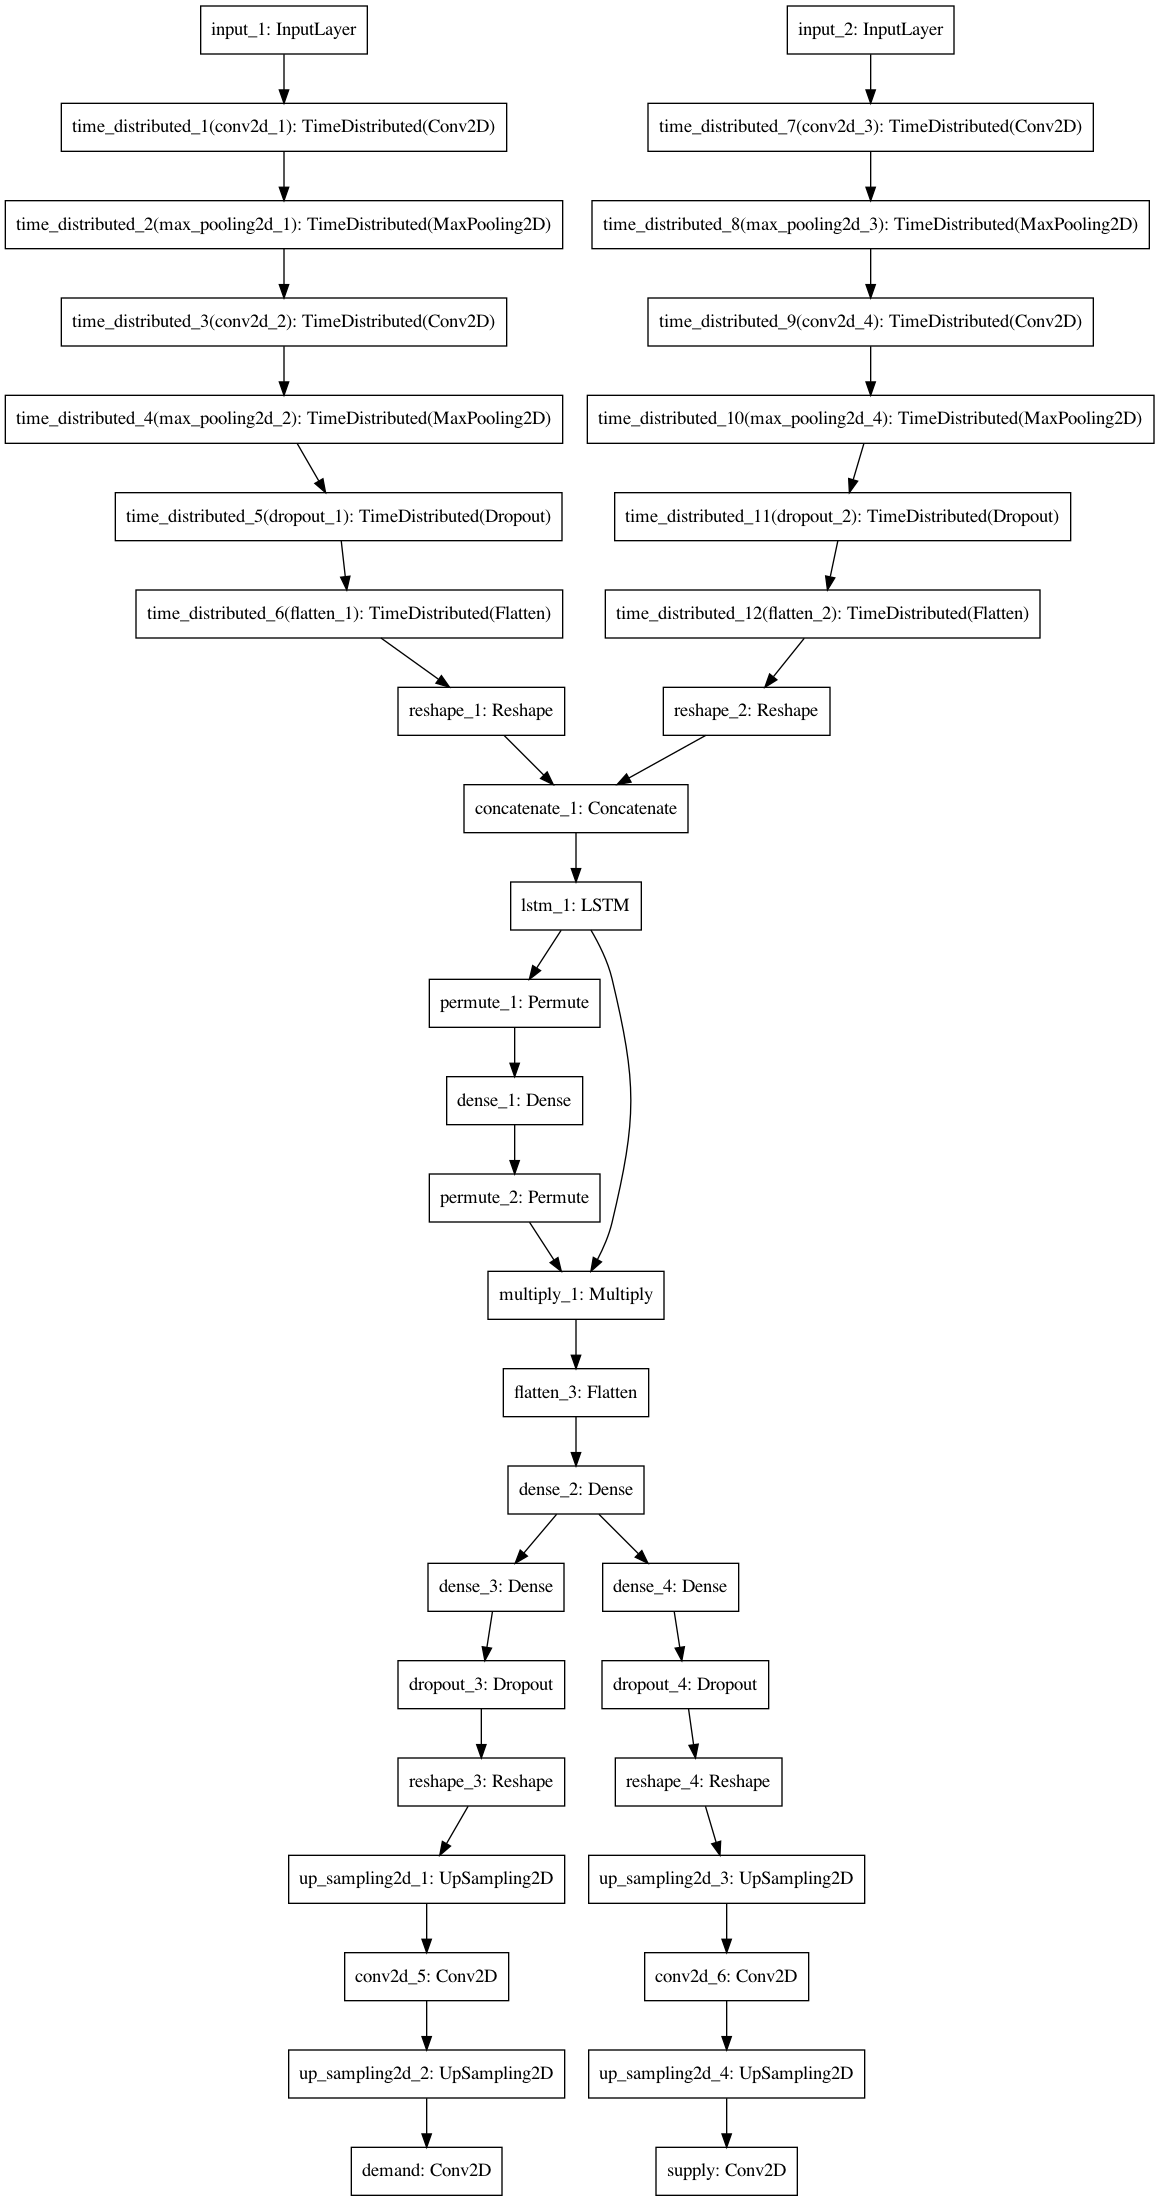
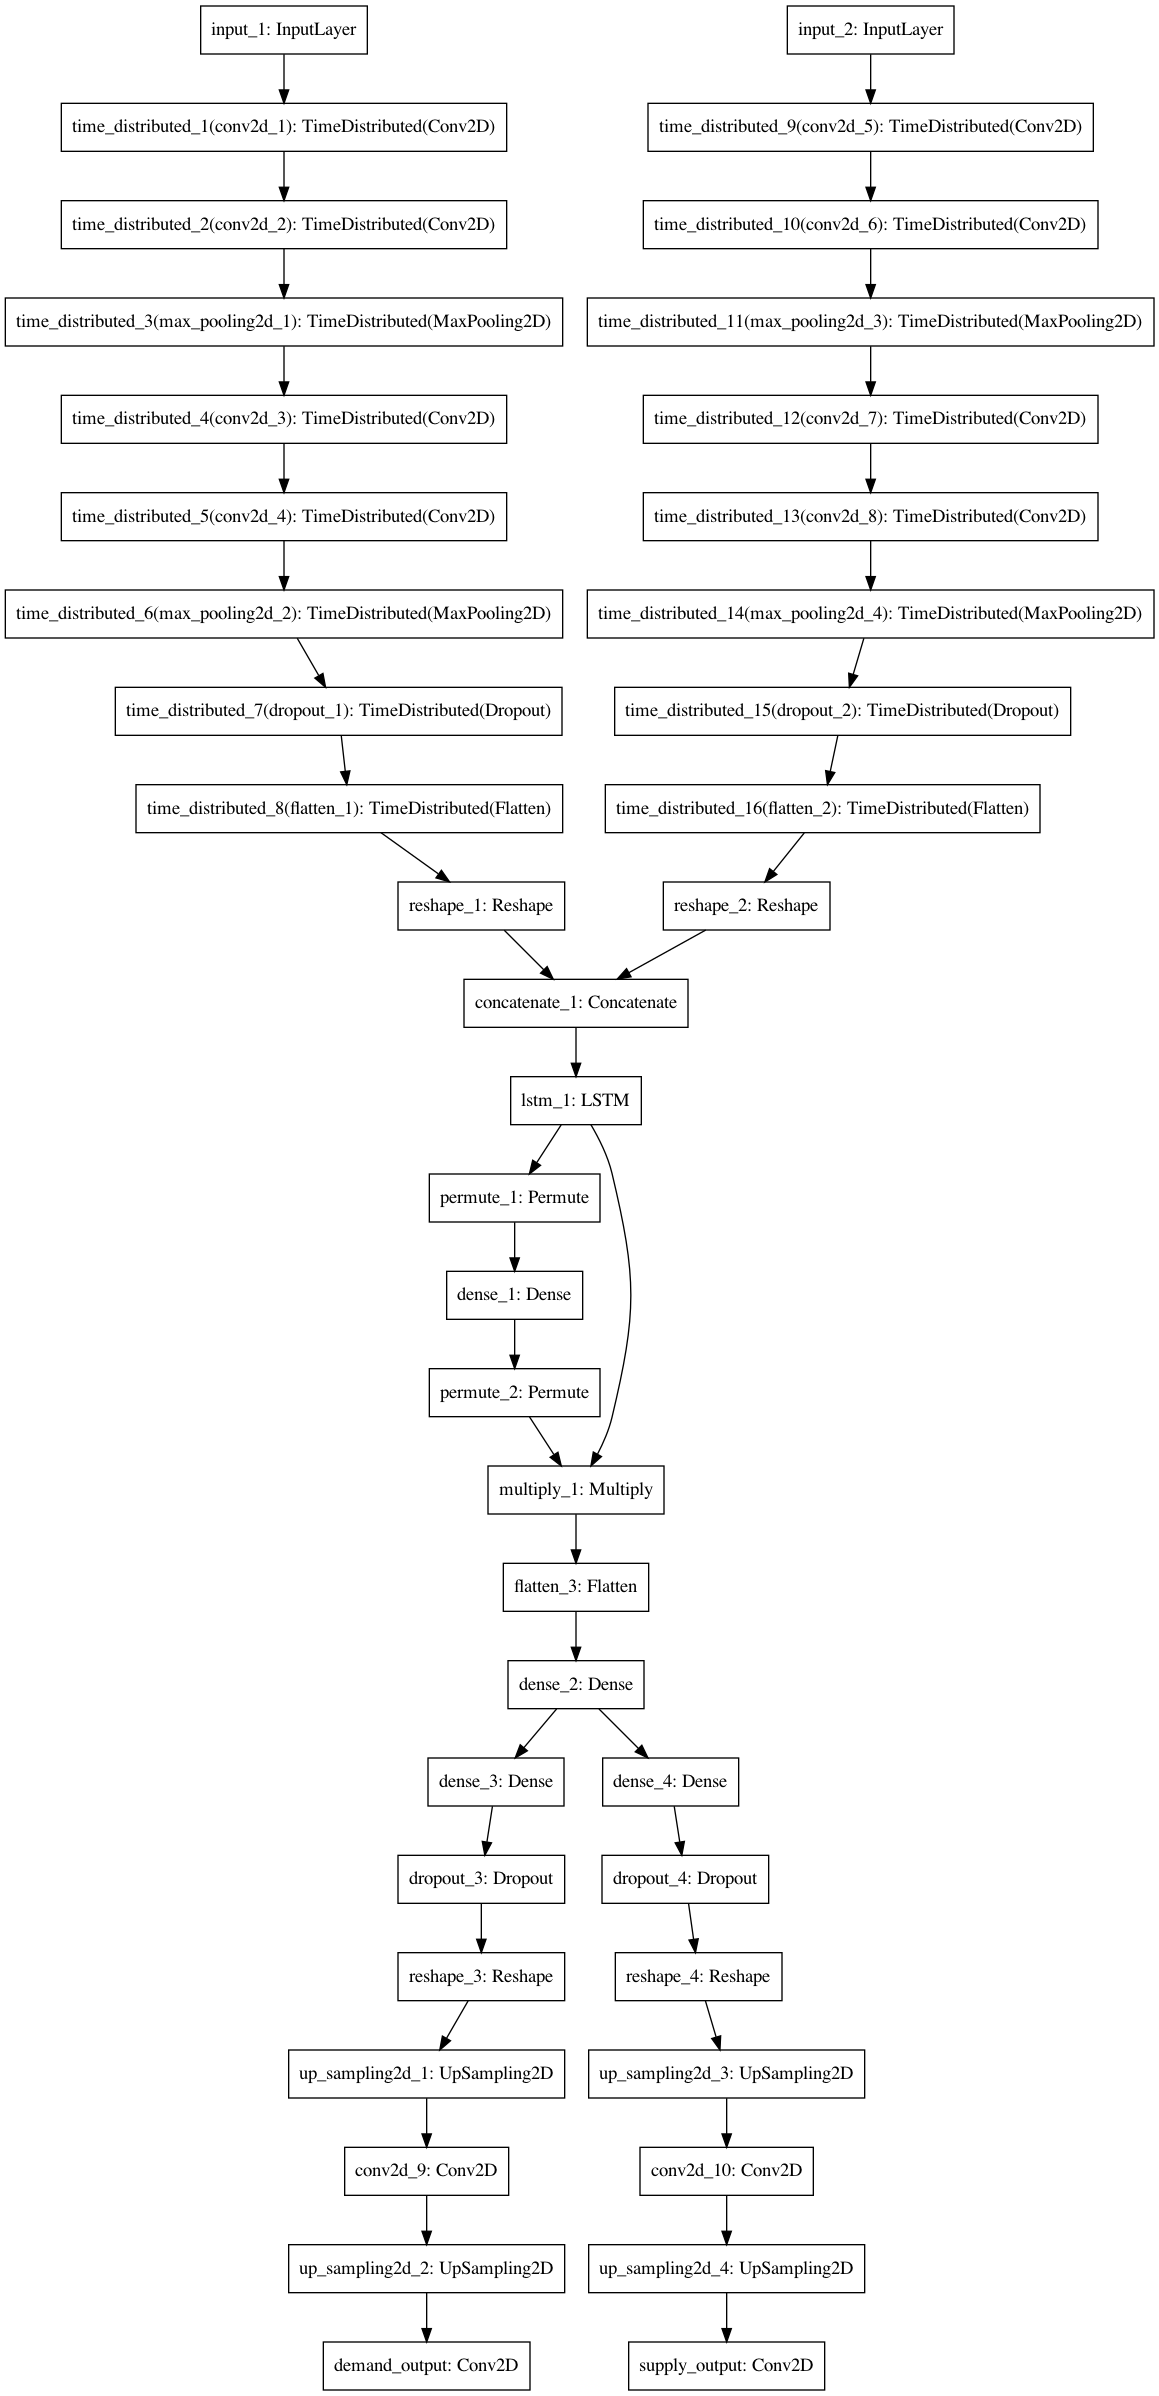
mac

Changed region(s): [[0.0, 0.0, 1.0, 1.0], [0.994, 0.1854, 1.0, 0.2163]]

diff --git a/model.py b/model.py
@@ -20,6 +20,17 @@ def attention_3d_block(inputs):
     return output_attention_mul
 
 
+def decoder(inputs, name):
+    decode = Dense(dim)(inputs)
+    decode = Dropout(0.3)(decode)
+    decode = Reshape((4, 4, 16))(decode)
+    decode = UpSampling2D((2, 2))(decode)
+    decode = Conv2D(8, (3, 3), padding='same')(decode)
+    decode = UpSampling2D((2, 2))(decode)
+    decoder_output = Conv2D(1, (3, 3), padding='same', name=name+'_output')(decode)
+    return decoder_output
+
+
 [demandX_train, supplyX_train] = np.load('train.npz')['X']
 [demandY_train, supplyY_train] = np.load('train.npz')['Y']
 [demandX_test, supplyX_test] = np.load('test.npz')['X']
@@ -59,23 +70,14 @@ attention = attention_3d_block(attention)
 attention = Flatten()(attention)
 attention = Dense(dim * 2)(attention)
 
-output_demand = Dense(dim)(attention)
-output_demand = Dropout(0.3)(output_demand)
-output_demand = Reshape((4, 4, 16))(output_demand)
-output_demand = UpSampling2D((2, 2))(output_demand)
-output_demand = Conv2D(8, (3, 3), padding='same')(output_demand)
-output_demand = UpSampling2D((2, 2))(output_demand)
-output_demand = Conv2D(1, (3, 3), padding='same', name='demand')(output_demand)
 
-output_supply = Dense(dim)(attention)
-output_supply = Dropout(0.3)(output_supply)
-output_supply = Reshape((4, 4, 16))(output_supply)
-output_supply = UpSampling2D((2, 2))(output_supply)
-output_supply = Conv2D(8, (3, 3), padding='same')(output_supply)
-output_supply = UpSampling2D((2, 2))(output_supply)
-output_supply = Conv2D(1, (3, 3), padding='same', name='supply')(output_supply)
 
-model = Model(inputs=[input_demand, input_supply], outputs=[output_demand, output_supply])
+
+demand_decoder = decoder(attention, 'demand')
+supply_decoder = decoder(attention, 'supply')
+
+
+model = Model(inputs=[input_demand, input_supply], outputs=[demand_decoder, supply_decoder])
 model.compile(loss='mse', optimizer='adadelta', metrics=[rmse])
 
 print(model.summary())
